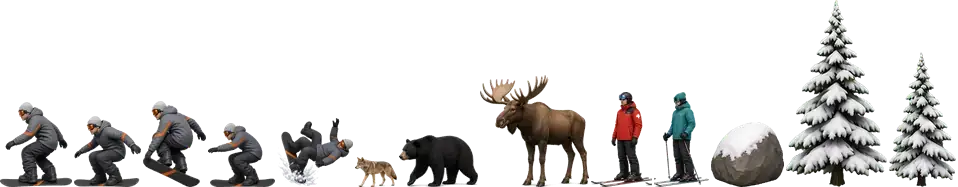
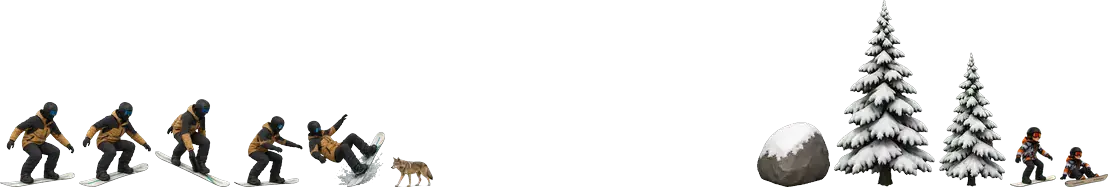
BD fd84204: Man1 rider, grom obstacles, L1 ~69.7KB gzip

Changed region(s): [[0.4843, 0.0, 1.0, 1.0], [0.0, 0.5348, 0.5146, 1.0]]

diff --git a/boulder-dodge/index.html b/boulder-dodge/index.html
@@ -44,11 +44,14 @@ canvas{display:block;width:100%;height:100%}
 <script>
 (function(){
 'use strict';
-var VER='0.9.18-airspin';
+var VER='0.9.20-groms';
 var cv=document.getElementById('cv'),cx=cv.getContext('2d');
 var W=390,H=844,scale=1,OY=0,dpr=1;
 var GROUND=268,G=3400,JV=-980,DT=1/120;
 var COYOTE=0.09,BUFFER=0.11,HOLD_CUT=0.62;
+var LIVES_MAX=5,lives=LIVES_MAX;
+/* Grom 1: sit (L1+) still; ride (L2+) moves at ~60% player speed. Native 1x, ≤70% rider H. */
+var GROM_SPD_FRAC=0.60,GROM_HIT=0.80,GROM_CLEAR_PTS=35,GROM_PAD_T=1.2;
 /* Air spin — taps only; half-turns, max 720; finish in a normal fall (raise rate, not height) */
 var SPIN_HALF=180,SPIN_MAX=720,SPIN_TOL=30;
 var SPIN_LIFT=Math.round(Math.abs(JV)*0.18); /* once/airtime · ~18% of jump impulse */
@@ -111,6 +114,13 @@ function artSc(){
 function artSize(name){
   if(!ART.ok||!ART.atlas||!ART.atlas.frames[name])return null;
   var f=ART.atlas.frames[name],s=artSc();return {f:f,w:f.w*s,h:f.h*s,img:ART.atlas.img};
+}
+/* Groms: native 1x via artSc, capped at 70% rider H — never upscale past that */
+function gromSize(frame){
+  if(!ART.ok||!ART.atlas||!ART.atlas.frames[frame])return null;
+  var f=ART.atlas.frames[frame],s=artSc(),cap=worldRiderH()*0.70;
+  if(f.h*s>cap)s=cap/f.h;
+  return {f:f,w:f.w*s,h:f.h*s,img:ART.atlas.img};
 }
 function drawArt(name,x,gy,opt){
   var a=artSize(name);if(!a)return false;
@@ -221,10 +231,9 @@ function paintRiderArt(pose,t){
   cx.save();
   /* bob only in air — on snow the board stays planted on the surface line */
   if(pose.air&&name!=='crash')cx.translate(0,Math.sin(t*5)*0.1);
-  /* crash tip in local space, then mirror so all poses face travel (right) */
+  /* crash tip in local space — atlas v2 already faces travel (right), no mirror */
   if(name==='crash')cx.rotate(Math.min(0.35,(S.crashT||0)*0.6));
-  /* Atlas faces left: flip around sprite center via negative dest width */
-  cx.drawImage(a.img,a.f.x,a.f.y,a.f.w,a.f.h,a.w/2,-a.h,-a.w,a.h);
+  cx.drawImage(a.img,a.f.x,a.f.y,a.f.w,a.f.h,-a.w/2,-a.h,a.w,a.h);
   cx.restore();
   return true;
 }
@@ -328,17 +337,24 @@ function drawCoyote(x,gy,t,ph,ow){
   cx.beginPath();cx.moveTo(x+8,gy-18);cx.quadraticCurveTo(x-6,gy-28+bob,x+4,gy-10);cx.stroke();
   cx.restore();
 }
-function drawGrom(x,gy,t,ow){
-  /* skier faces left — used as on-slope grom obstacle at native scale */
-  if(ART.ok&&drawArt('skier',x+(ow||(artSize('skier')||{w:40}).w)/2,gy,null))return;
-  var bob=Math.sin(t*7)*1.2,asc=(worldRiderH()*0.55)/48;
-  cx.save();cx.translate(x,gy);cx.scale(asc,asc);cx.translate(-x,-gy);
-  cx.fillStyle='rgba(20,30,45,.2)';ell(x+14,gy+2,16,3);cx.fill();
-  cx.fillStyle='#3d6ec9';rr(x+4,gy-34+bob,18,16,4);cx.fill();
-  cx.fillStyle='#e8b890';ell(x+13,gy-40+bob,7,7);cx.fill();
-  cx.fillStyle='#ff5a7a';rr(x+6,gy-48+bob,14,8,3);cx.fill();
-  cx.fillStyle='#2a2f3a';cx.fillRect(x+7,gy-18+bob,5,12);cx.fillRect(x+14,gy-18+bob,5,12);
-  cx.fillStyle='#c4a06a';rr(x-2,gy-6,30,7,3);cx.fill();
+function drawGrom(o,ox,gy){
+  /* Grom 1 atlas — sit or ride, faces downhill (right), native ≤70% rider H */
+  var frame=o.grom==='ride'?'grom_ride':'grom_sit';
+  var a=gromSize(frame);
+  if(a){
+    cx.save();cx.translate(ox+(o.w||a.w)/2,gy);
+    cx.drawImage(a.img,a.f.x,a.f.y,a.f.w,a.f.h,-a.w/2,-a.h,a.w,a.h);
+    cx.restore();return;
+  }
+  /* vector fallback kid — same relative height */
+  var bob=o.grom==='ride'?Math.sin(S.t*7)*1.2:0,asc=(worldRiderH()*0.55)/48;
+  cx.save();cx.translate(ox,gy);cx.scale(asc,asc);cx.translate(-ox,-gy);
+  cx.fillStyle='rgba(20,30,45,.2)';ell(ox+14,gy+2,16,3);cx.fill();
+  cx.fillStyle='#3d6ec9';rr(ox+4,gy-34+bob,18,16,4);cx.fill();
+  cx.fillStyle='#e8b890';ell(ox+13,gy-40+bob,7,7);cx.fill();
+  cx.fillStyle='#ff5a7a';rr(ox+6,gy-48+bob,14,8,3);cx.fill();
+  cx.fillStyle='#2a2f3a';cx.fillRect(ox+7,gy-18+bob,5,12);cx.fillRect(ox+14,gy-18+bob,5,12);
+  cx.fillStyle='#c4a06a';rr(ox-2,gy-6,30,7,3);cx.fill();
   cx.restore();
 }
 
@@ -373,18 +389,39 @@ function stopMusic(){musicOn=false;}
 function tickMusic(now){if(!musicOn||muted||!ac)return;while(now>=nextBeat){kick();S.pulse=1;nextBeat+=BEAT*1000;}}
 
 /* —— state —— */
+function gromPadX(){return SPD*GROM_PAD_T;} /* ~1.2s of travel */
+function gromKindForLevel(){return levelIdx>=1?'ride':'sit';} /* L1 sit · L2+ ride */
+function gromTooClose(x,obs){
+  /* Avoid boulder clusters, kickers (+ landing), gaps — lone rocks OK */
+  var pad=gromPadX(),i,o,rocks=[],pairGap=worldRiderH()*2.2;
+  for(i=0;i<obs.length;i++){
+    o=obs[i];
+    if(o.k==='kicker'){
+      if(x>=o.x-pad&&x<=o.x+o.w+pad*1.4)return true;
+    }else if(o.k==='gap'){
+      if(Math.abs((o.x+o.w/2)-x)<pad)return true;
+    }else if(o.k==='rock'||o.k==='roll')rocks.push(o.x);
+  }
+  rocks.sort(function(a,b){return a-b;});
+  for(i=0;i<rocks.length-1;i++){
+    if(rocks[i+1]-rocks[i]>pairGap)continue;
+    /* grom inside pad of either rock in a tight pair / cluster */
+    if(Math.abs(x-rocks[i])<pad||Math.abs(x-rocks[i+1])<pad)return true;
+  }
+  return false;
+}
 function buildObs(){
   /* Hitboxes follow visual sizes. With art: native atlas frames via artSc (no per-object rescale). */
-  var R=worldRiderH(),obs=[],i,e,x;
-  var B,C,K,G,sc;
+  var R=worldRiderH(),obs=[],i,e,x,groms=[];
+  var B,C,K,sc,gs,gk=gromKindForLevel(),gf=gk==='ride'?'grom_ride':'grom_sit';
   if(ART.ok){
     sc=artSc();
     B={w:ART.atlas.frames.boulder.w*sc,h:ART.atlas.frames.boulder.h*sc};
     C={w:ART.atlas.frames.coyote.w*sc,h:ART.atlas.frames.coyote.h*sc};
     K={w:1.4*R,h:0.85*R}; /* vector kicker */
-    G={w:ART.atlas.frames.skier.w*sc,h:ART.atlas.frames.skier.h*sc};
+    gs=gromSize(gf)||{w:0.42*R,h:0.55*R};
   }else{
-    B={w:0.90*R,h:0.72*R};C={w:0.75*R,h:0.35*R};K={w:1.4*R,h:0.85*R};G={w:0.42*R,h:0.55*R};
+    B={w:0.90*R,h:0.72*R};C={w:0.75*R,h:0.35*R};K={w:1.4*R,h:0.85*R};gs={w:0.42*R,h:0.55*R};
   }
   for(i=0;i<CHART.length;i++){
     e=CHART[i];x=e.x;
@@ -396,23 +433,30 @@ function buildObs(){
     else if(e.t==='gap')obs.push({k:'gap',x:x,w:1.7*R,h:0.65*R});
     else if(e.t==='kicker'){obs.push({k:'kicker',x:x,w:K.w,h:K.h});obs.push({k:'rock',x:x+K.w*1.15,w:B.w,h:B.h,seed:i*11,airGate:1});}
     else if(e.t==='coyote')obs.push({k:'coyote',x:x,w:C.w,h:C.h,seed:i,ph:i});
-    else if(e.t==='grom')obs.push({k:'grom',x:x,w:G.w,h:G.h,seed:i});
+    else if(e.t==='grom')groms.push(x);
+  }
+  /* Place at most one valid grom — sit L1, ride L2+; keep ≥1.2s from clusters/kickers/landings */
+  for(i=0;i<groms.length;i++){
+    x=groms[i];
+    if(gromTooClose(x,obs))continue;
+    obs.push({k:'grom',grom:gk,x:x,w:gs.w,h:gs.h,seed:i,vx:gk==='ride'?SPD*GROM_SPD_FRAC:0});
+    break; /* one grom max in the chart / on screen */
   }
   return obs;
 }
 function reset(keepAttempts){
-  if(!keepAttempts)attempts=0;
+  if(!keepAttempts){attempts=0;lives=LIVES_MAX;}
   ensureBackdrop(curLevel().bg);
   preloadBackdrop(LEVELS[(levelIdx+1)%LEVELS.length].bg);
   var rx=rideX();
   S={mode:'ready',t:0,dist:0,p:{x:rx,y:gY(rx),vy:0,on:true},obs:buildObs(),parts:[],trail:[],coyote:0,buf:0,holding:false,landT:0,pulse:0,flash:0,nearT:0,pop:null,fail:'',done:false,score:0,cleared:0,crashT:0,
-    spinDeg:0,spinTarget:0,spinBoost:false,spinActive:false,trickPts:0,
+    spinDeg:0,spinTarget:0,spinBoost:false,spinActive:false,trickPts:0,nearPts:0,
     flip:0,flipHold:false,pressAt:0,pressArmed:false,pressFromGround:false};
   /* plant board exactly on surface line after restart */
   S.p.y=gY(S.p.x);S.p.on=true;S.p.vy=0;
   stopMusic();syncUI();
 }
-function score(){return Math.floor(S.dist/10)+S.cleared*25+S.trickPts+(S.done?250:0);}
+function score(){return Math.floor(S.dist/10)+S.cleared*25+S.trickPts+(S.nearPts||0)+(S.done?250:0);}
 function clearSpin(){S.spinDeg=0;S.spinTarget=0;S.spinBoost=false;S.spinActive=false;}
 function clearFlip(){S.flip=0;S.flipHold=false;}
 function clearTricks(){clearSpin();clearFlip();}
@@ -461,9 +505,16 @@ function crash(why){
   S.mode='over';S.fail=why||'Wipeout';S.pop=null;S.flash=-.2;S.crashT=0;clearTricks();S.pressArmed=false;
   /* Pin crash body to slope surface at rider x — never bury under snow */
   S.p.y=gY(S.p.x);S.p.vy=0;S.p.on=true;
+  lives=Math.max(0,lives-1);
   crashSFX();stopMusic();spawnPuff(S.p.x,S.p.y-10,22,'#fff');
   var sc=score();if(sc>pb){pb=sc;try{localStorage.setItem('bd9.pb',pb)}catch(e){}}
-  setTimeout(function(){if(S.mode==='over'){attempts++;reset(true);S.mode='play';startMusic();syncUI();}},260);
+  setTimeout(function(){
+    if(S.mode!=='over')return;
+    if(lives<=0){
+      attempts++;reset(false);S.mode='ready';openMenu();syncUI();return;
+    }
+    attempts++;reset(true);S.mode='play';startMusic();syncUI();
+  },260);
 }
 /* World-y floor for board so rider head stays ≤35% from top and clear of HUD */
 function apexFloorY(){
@@ -526,7 +577,10 @@ function step(dt){
   for(var ti=S.trail.length-1;ti>=0;ti--){S.trail[ti].l-=dt;S.trail[ti].x-=SPD*dt*.12;if(S.trail[ti].l<=0)S.trail.splice(ti,1);}
   for(var i=S.parts.length-1;i>=0;i--){var q=S.parts[i];q.x+=q.vx*dt;q.y+=q.vy*dt;q.vy+=420*dt;q.l-=dt;if(q.l<=0)S.parts.splice(i,1);}
   for(i=0;i<S.obs.length;i++){
-    var o=S.obs[i],ox=o.x-S.dist+p.x;
+    var o=S.obs[i];
+    /* Moving grom rides downhill slower than the player — overtake by jump/pass */
+    if(o.k==='grom'&&o.grom==='ride'&&o.vx)o.x+=o.vx*dt;
+    var ox=o.x-S.dist+p.x;
     if(o.k==='roll'){
       o.spin=(o.spin||0)+dt*4;
       var top=gY(ox)-o.h;
@@ -547,10 +601,25 @@ function step(dt){
       }
       continue;
     }
-    if(o.k==='coyote'||o.k==='grom'){
-      var hh=o.k==='coyote'?28:40,topA=gY(ox)-hh;
+    if(o.k==='coyote'){
+      var hh=28,topA=gY(ox)-hh;
       if(!o.cleared&&ox+o.w<p.x-8){o.cleared=1;S.cleared++;}
-      if(ox<p.x+16&&ox+o.w>p.x-12&&p.y>topA+4&&p.y<gY(ox)+2){crash(o.k==='coyote'?'Coyote':'Grom');return;}
+      if(ox<p.x+16&&ox+o.w>p.x-12&&p.y>topA+4&&p.y<gY(ox)+2){crash('Coyote');return;}
+      continue;
+    }
+    if(o.k==='grom'){
+      /* Hitbox ≈80% of sprite — jump like a small rock; clear = close-call bonus */
+      var gw=o.w*GROM_HIT,gh=o.h*GROM_HIT,gx0=ox+(o.w-gw)/2,gtop=gY(ox+o.w/2)-gh;
+      if(!o.cleared&&ox+o.w<p.x-8){
+        o.cleared=1;S.cleared++;S.nearPts=(S.nearPts||0)+GROM_CLEAR_PTS;
+        S.nearT=.45;S.pop={txt:'CLOSE!',l:.8};beep(1200,.04,'square',.06);
+      }
+      var hitL=p.x-14,hitR=p.x+16,hitB=p.y,hitT=p.y-(p.on?12:38);
+      if(gx0<hitR&&gx0+gw>hitL&&hitB>gtop+2&&hitT<gY(ox+o.w/2)+2){
+        /* Air over: pass without contact */
+        if(!p.on&&hitB<gtop+18){if(!o.near){o.near=1;S.nearT=.4;}}
+        else{crash('Hit grom');return;}
+      }
       continue;
     }
     // rock
@@ -667,7 +736,7 @@ function draw(){
     else if(o.k==='gap'){cx.fillStyle='#1a3048';cx.fillRect(ox,gY(ox)+1,o.w,90);cx.fillStyle='#3a5068';cx.fillRect(ox-8,gY(ox)-5,10,12);cx.fillRect(ox+o.w-2,gY(ox+o.w)-5,10,12);cx.fillStyle='rgba(0,0,0,.2)';cx.fillRect(ox,gY(ox)+1,o.w,14);}
     else if(o.k==='kicker')drawKicker(ox,gY(ox),o.w,o.h);
     else if(o.k==='coyote')drawCoyote(ox,gY(ox),S.t,o.ph||0,o.w);
-    else if(o.k==='grom')drawGrom(ox,gY(ox),S.t,o.w);
+    else if(o.k==='grom')drawGrom(o,ox,gY(ox));
   });
 
   /* plant board onto surface line; light slope tip only (big rotate lifts the deck visually) */
@@ -696,7 +765,7 @@ function draw(){
     }
     cx.textAlign='left';
     hudText('Score '+score(),12,26+hy,'800 24px system-ui,sans-serif','#fff');
-    hudText('Attempt '+Math.max(1,attempts+(S.mode==='play'||S.mode==='over'?1:0)),12,48+hy,'800 13px system-ui,sans-serif','#e8f2ff');
+    hudText('♥ '+lives+'  ·  Attempt '+Math.max(1,attempts+(S.mode==='play'||S.mode==='over'?1:0)),12,48+hy,'800 13px system-ui,sans-serif','#e8f2ff');
     hudText(curLevel().id+' '+curLevel().name,12,70+hy,'800 16px system-ui,sans-serif','#fff');
     /* soft progress track (rounded via path) — not a HUD plate */
     cx.fillStyle='rgba(0,0,0,.35)';rr(barX,barY,barW,12,6);cx.fill();
@@ -743,7 +812,7 @@ function openMenu(){
   var el=document.getElementById('menu');el.style.display='block';
   var lv=curLevel();
   if(menuSheet==='how'){
-    el.innerHTML='<div class="sheet"><h2>How to play</h2><ul><li>JUMP — hold in air to backflip (TP-style)</li><li>Quick air taps (≤150ms) spin — half-turns, max 720</li><li>Land clean on both axes (±30°) or wipeout</li><li>Kickers launch you — air-dodge rocks</li></ul><button type="button" class="back" id="sheetBack">Back</button></div>';
+    el.innerHTML='<div class="sheet"><h2>How to play</h2><ul><li>JUMP — hold in air to backflip · air taps spin</li><li>Five lives — hit a rock or grom and lose one</li><li>Groms: sit (L1) or ride (L2+) — jump/clear for CLOSE!</li><li>Land clean on both axes (±30°) or wipeout</li></ul><button type="button" class="back" id="sheetBack">Back</button></div>';
   }else if(menuSheet==='levels'){
     var rows=LEVELS.map(function(L,i){return '<p'+(i===levelIdx?' style="color:#ffd84a"':'')+'><b>'+L.id+' '+L.name+'</b> — resort backdrop</p>';}).join('');
     el.innerHTML='<div class="sheet"><h2>Levels</h2>'+rows+'<p style="opacity:.75">Same chart; one backdrop per level.</p><button type="button" class="back" id="sheetBack">Back</button></div>';
@@ -801,7 +870,7 @@ document.getElementById('pause').onclick=function(){if(!S)return;if(S.mode==='pl
 document.getElementById('mute').onclick=function(){muted=!muted;try{localStorage.setItem('bd9.mute',muted?'1':'0')}catch(e){}if(muted)stopMusic();else if(S&&S.mode==='play')startMusic();syncUI();};
 document.getElementById('menu').addEventListener('click',function(e){
   var b=e.target.closest('button');if(!b)return;
-  if(b.id==='playGo'){closeMenu();attempts++;reset(true);S.mode='play';startMusic();syncUI();return;}
+  if(b.id==='playGo'){closeMenu();lives=LIVES_MAX;attempts++;reset(true);S.mode='play';startMusic();syncUI();return;}
   if(b.id==='sheetBack'){menuSheet=null;openMenu();return;}
   if(b.dataset.sheet){menuSheet=b.dataset.sheet;openMenu();}
 });
@@ -813,19 +882,21 @@ window.BoulderDodge={
   version:VER,
   startLevel:function(i){
     if(typeof i==='number')setLevel(i);
-    closeMenu();attempts++;reset(true);S.mode='play';startMusic();syncUI();
+    closeMenu();lives=LIVES_MAX;attempts++;reset(true);S.mode='play';startMusic();syncUI();
   },
   start:function(){if(S.mode==='ready'){S.mode='play';startMusic();syncUI();}},
-  openMenu:openMenu,getState:function(){return S.mode;},getScore:score,
+  openMenu:openMenu,getState:function(){return S.mode;},getScore:score,getLives:function(){return lives;},
   _test:{
     state:function(){return S;},step:step,jump:jump,spinTap:spinTap,beginPress:beginPress,canvasRelease:canvasRelease,
-    holdSet:holdSet,draw:draw,reset:reset,crash:crash,
+    holdSet:holdSet,draw:draw,reset:reset,crash:crash,buildObs:buildObs,gromSize:gromSize,
     setLevel:setLevel,curLevel:curLevel,ensureBackdrop:ensureBackdrop,
     clearSpin:clearSpin,clearFlip:clearFlip,clearTricks:clearTricks,
     spinLandingClean:spinLandingClean,flipLandingClean:flipLandingClean,spinTier:spinTier,landFromAir:landFromAir,
+    getLives:function(){return lives;},setLives:function(n){lives=Math.max(0,Math.min(LIVES_MAX,n|0));},
     consts:{DT:DT,SPD:SPD,L1_LEN:L1_LEN,RIDER_H_FRAC:RIDER_H_FRAC,RIDER_LOCAL_H:RIDER_LOCAL_H,JV:JV,G:G,
       SPIN_HALF:SPIN_HALF,SPIN_MAX:SPIN_MAX,SPIN_TOL:SPIN_TOL,SPIN_LIFT:SPIN_LIFT,SPIN_RATE:SPIN_RATE,SPIN_PTS:SPIN_PTS,
-      TAP_MS:TAP_MS,FLIP_RATE:FLIP_RATE,FLIP_TOL:FLIP_TOL,APEX_TOP_FRAC:APEX_TOP_FRAC},
+      TAP_MS:TAP_MS,FLIP_RATE:FLIP_RATE,FLIP_TOL:FLIP_TOL,APEX_TOP_FRAC:APEX_TOP_FRAC,
+      LIVES_MAX:LIVES_MAX,GROM_SPD_FRAC:GROM_SPD_FRAC,GROM_HIT:GROM_HIT,GROM_CLEAR_PTS:GROM_CLEAR_PTS,GROM_PAD_T:GROM_PAD_T},
     apexFloorY:apexFloorY,clampApex:clampApex,
     measureRider:function(){
       var playCss=innerHeight,riderCss=RIDER_H_FRAC*playCss;
